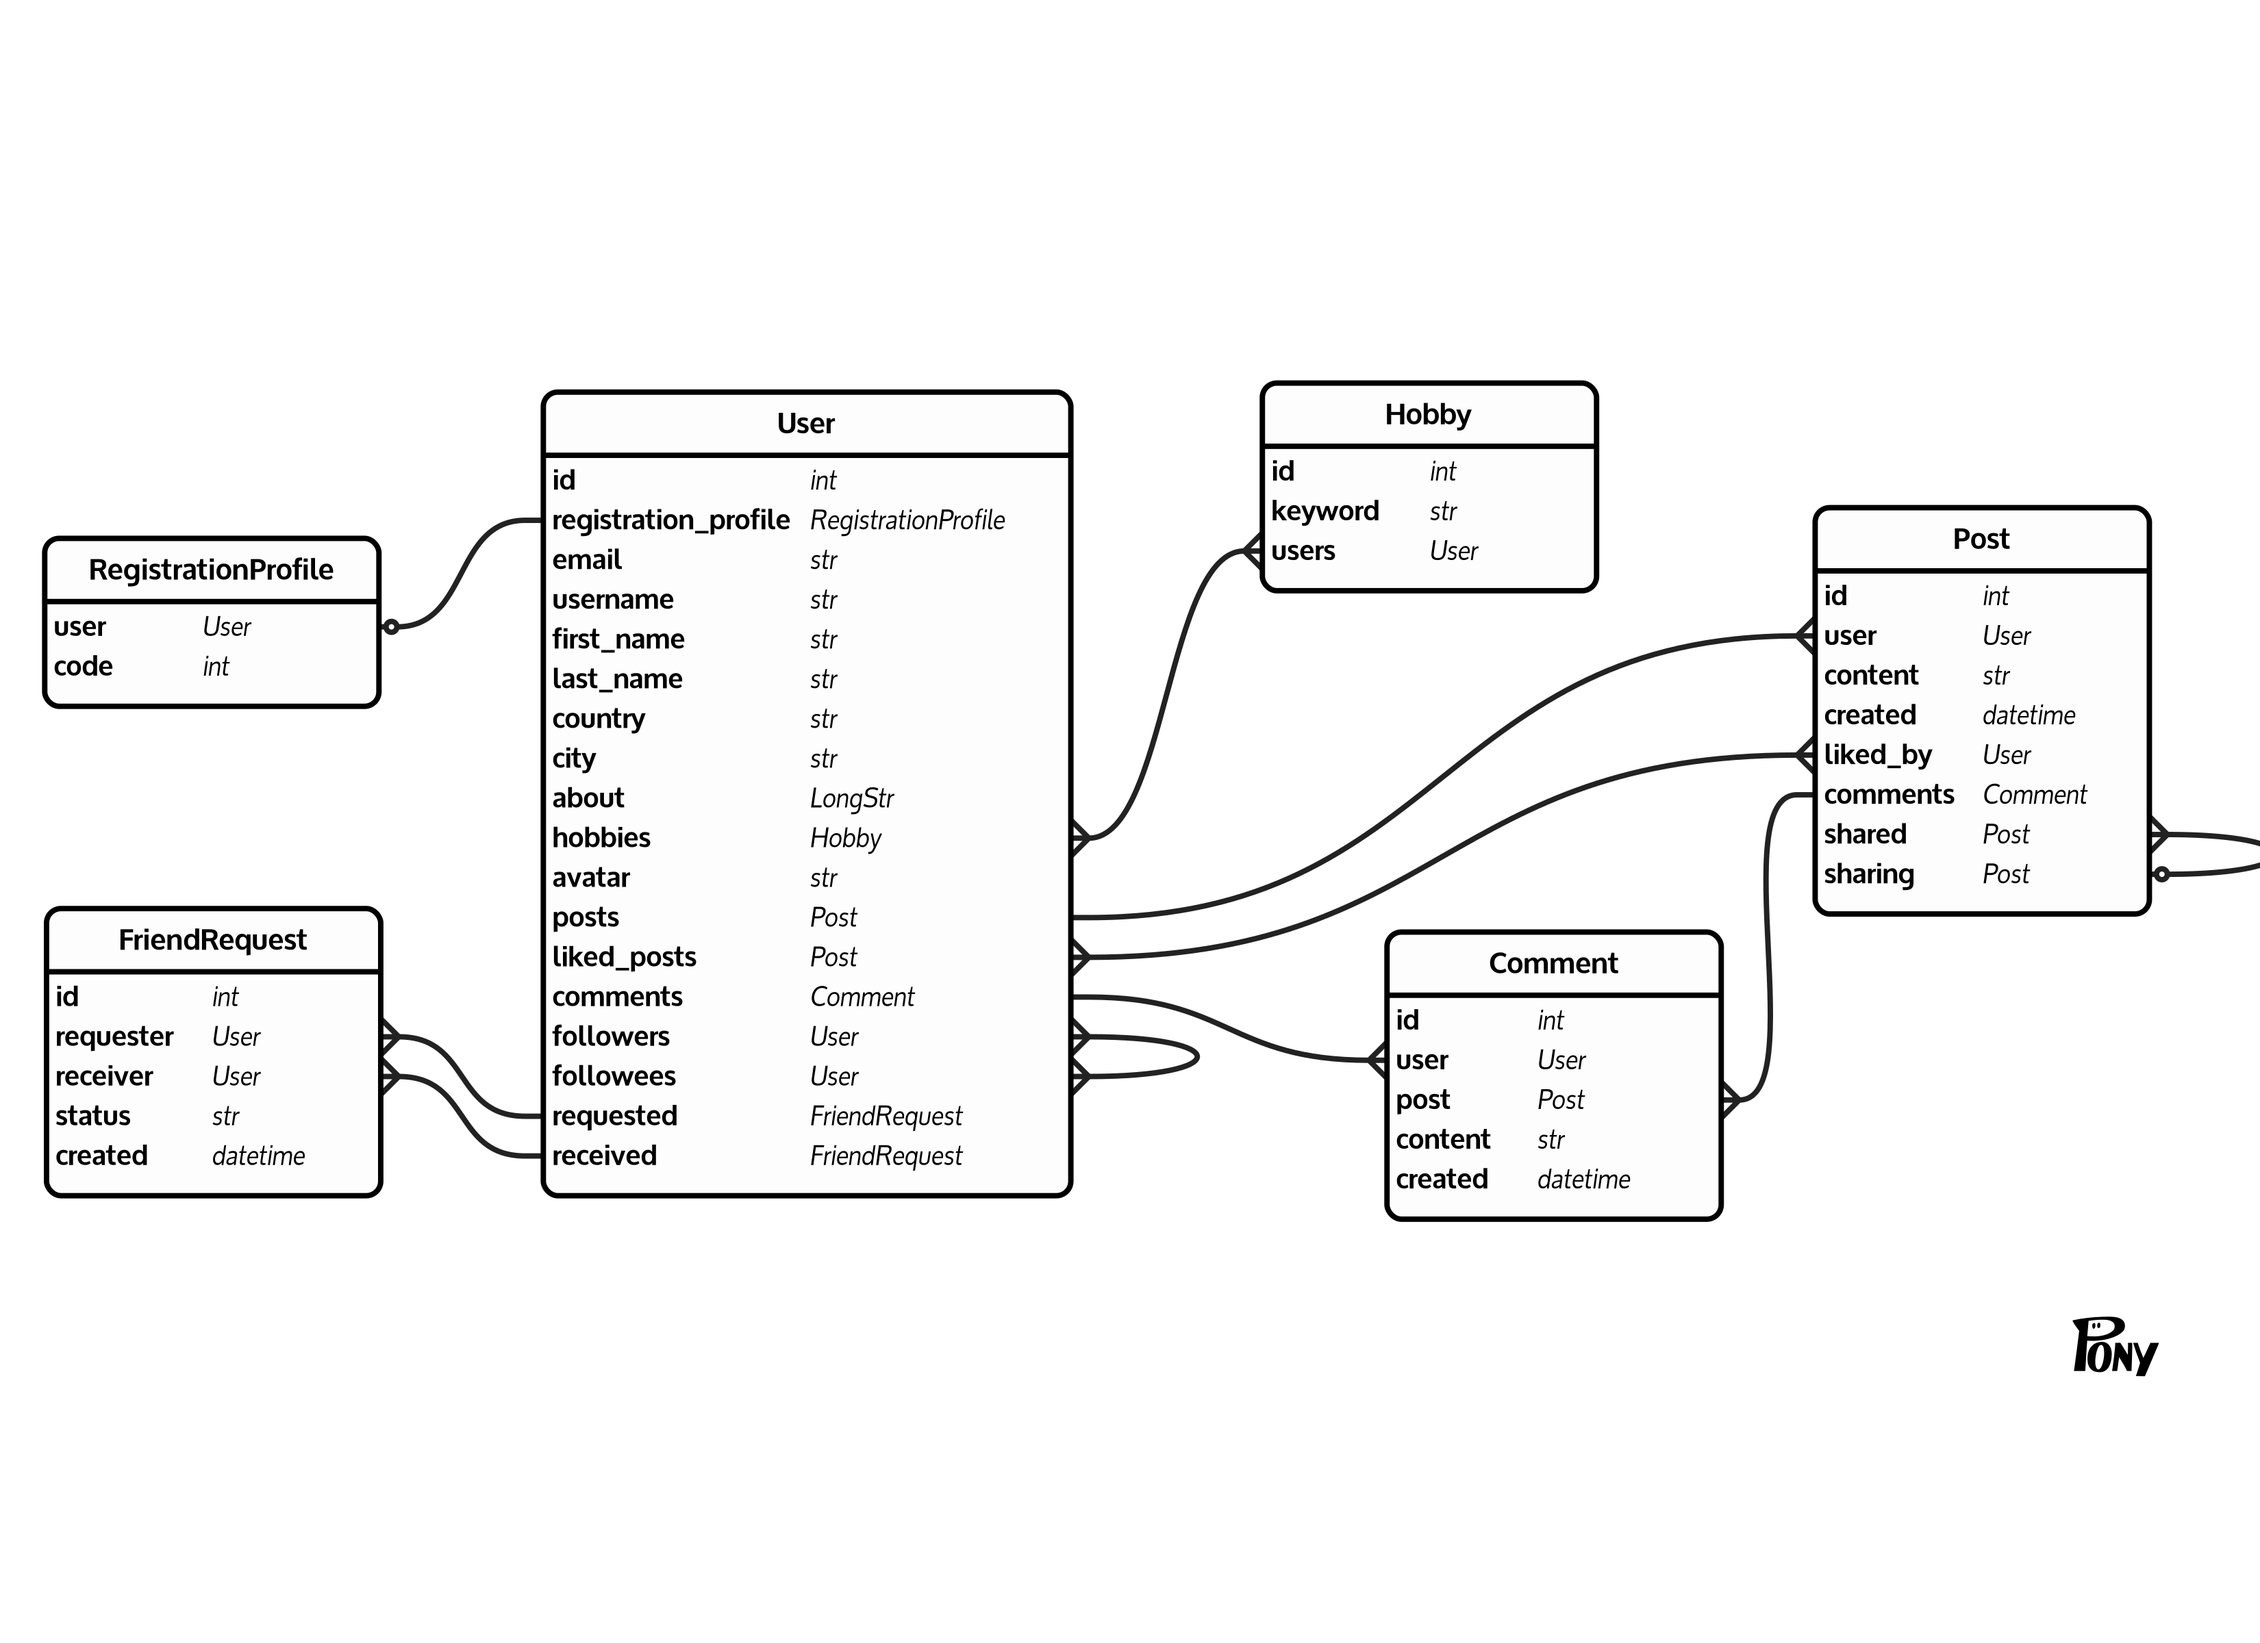
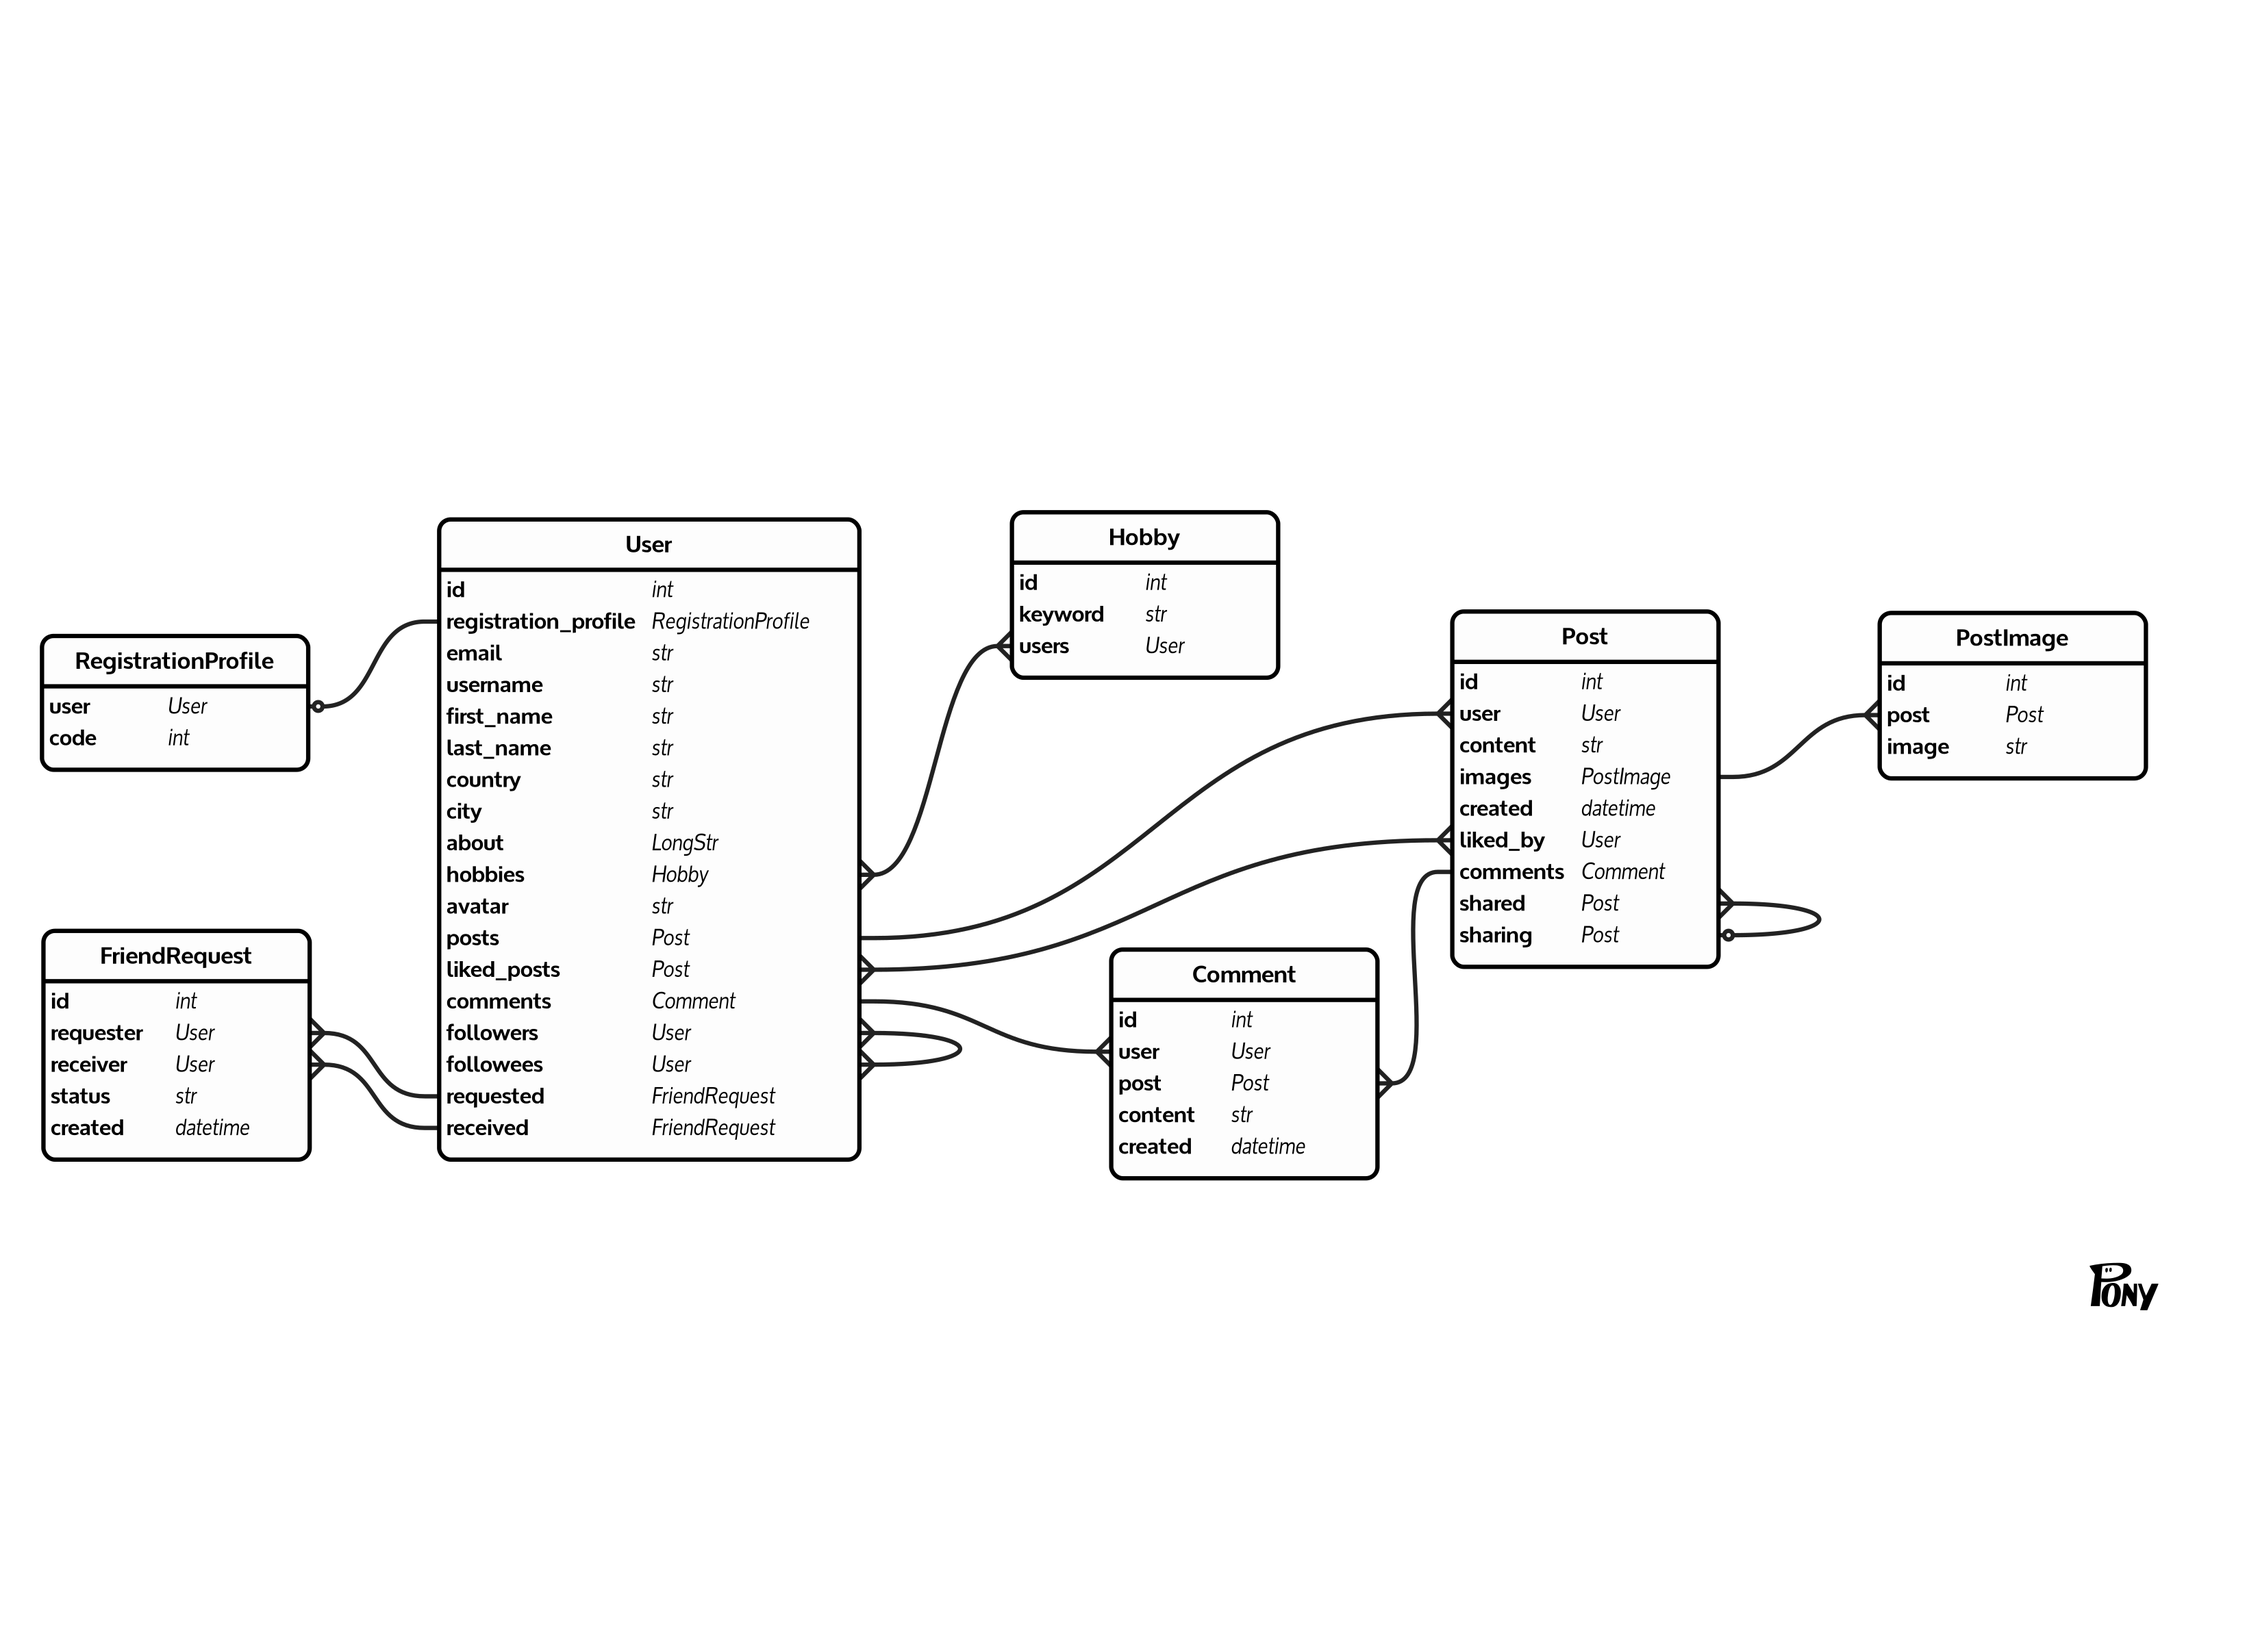
List create posts view with filtering done

diff --git a/backend/apps/post/views.py b/backend/apps/post/views.py
@@ -1,16 +1,28 @@
 from rest_framework import generics, response
-from .models import Post, PostImage
-from .serializers import PostSerializer, LikeSerializer, PostPicSerializer
+from apps.post.models import Post, PostImage
+from apps.post.serializers import PostSerializer, LikeSerializer, PostPicSerializer
+from django.utils.decorators import method_decorator
+from drf_yasg.utils import swagger_auto_schema
 
-IMAGE_FILE_TYPES = ['png', 'jpg', 'jpeg']
 
-
-class PostList(generics.ListCreateAPIView):
-    """
-    List Posts for all users / Create a post for logged in user
-    """
-    queryset = Post.objects.all()
+@method_decorator(name='get', decorator=swagger_auto_schema(operation_description='List all posts.'))
+@method_decorator(name='post',
+                  decorator=swagger_auto_schema(operation_description='Create a new post for the logged-in user.'))
+class ListCreatePostsView(generics.ListCreateAPIView):
     serializer_class = PostSerializer
+
+    # Allows dynamic filtering for all fields with multiple query parameters supporting lookups
+    def get_queryset(self):
+        queryset = Post.objects.all()
+        queryparams = self.request.query_params
+        for key in queryparams.keys():
+            attr = key.split('__')[0]
+            if hasattr(Post, attr) and attr in ['id', 'user', 'content', 'created']:
+                query = {f'{key}': queryparams.get(key)}
+                queryset = queryset.filter(**query)
+            else:
+                return []
+        return queryset.order_by('-created')
 
     def perform_create(self, serializer):
         serializer.save(user=self.request.user)

diff --git a/backend/apps/post/serializers.py b/backend/apps/post/serializers.py
@@ -1,16 +1,23 @@
 from rest_framework import serializers
-from .models import Post, PostImage
-from ..comment.serializers import CommentSimpleSerializer
+from apps.post.models import Post, PostImage
 from apps.user.serializers.user_serializers import NestedUserSerializer
+from apps.comment.serializers import CommentSimpleSerializer
+
+
+# TODO: Add shared and sharing fields where appropriate once implemented
 
 
 class PostSerializer(serializers.ModelSerializer):
-    comments = CommentSimpleSerializer(many=True, read_only=True)
     user = NestedUserSerializer(read_only=True)
+    images = serializers.SerializerMethodField()
+    comments = CommentSimpleSerializer(many=True, read_only=True)
+
+    def get_images(self, obj):
+        return [instance.image.url for instance in obj.images.all()]
 
     class Meta:
         model = Post
-        fields = '__all__'
+        fields = ['id', 'user', 'content', 'images', 'created', 'liked_by', 'comments']
 
 
 class LikeSerializer(serializers.ModelSerializer):

diff --git a/backend/apps/post/models.py b/backend/apps/post/models.py
@@ -8,10 +8,10 @@ class Post(models.Model):
     created = models.DateTimeField(auto_now_add=True)
     liked_by = models.ManyToManyField(to=settings.AUTH_USER_MODEL, related_name='liked_posts', blank=True)
 
-    # images - ForeignKey field defined in PostImage model
-    # comments - ManyToMany field defined in Comment model
     # TODO: shared
     # TODO: sharing
+    # images - ForeignKey field defined in PostImage model
+    # comments - ManyToMany field defined in Comment model
 
     def __str__(self):
         return f'Post {self.id} ({self.user})'

diff --git a/backend/apps/post/urls.py b/backend/apps/post/urls.py
@@ -2,7 +2,7 @@ from django.urls import path
 from apps.post.views import *
 
 urlpatterns = [
-    path('', PostList.as_view()),
+    path('', ListCreatePostsView.as_view()),
     # path('<int:pk>/', views.PostDetail.as_view()),
     # path('toggle-like/<int:pk>/', views.LikePost.as_view()),
     # path('user/', views.ListUsersPost.as_view()),
